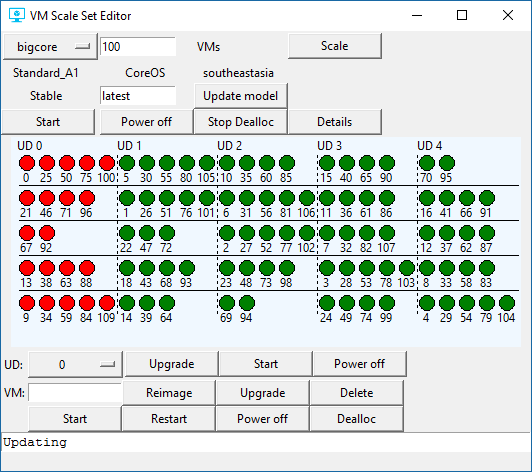
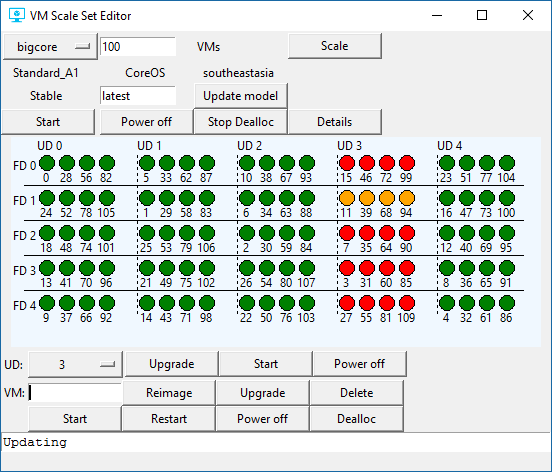
Improve FD UI

diff --git a/vmsseditor.py b/vmsseditor.py
@@ -78,18 +78,20 @@ def draw_grid():
     # horizontal lines for FDs
     for y in range(4):
         ydelta = y * 35
-        vmcanvas.create_line(10, 50 + ydelta, 510, 50 + ydelta)
+        vmcanvas.create_text(15, ydelta + 30, text='FD ' + str(y))
+        vmcanvas.create_line(15, 50 + ydelta, 515, 50 + ydelta)
+    vmcanvas.create_text(15, 170, text='FD 4')
 
     # vertical lines for UDs
     for x in range(4):
         xdelta = x * 100
-        vmcanvas.create_text(20 + xdelta, 10, text='UD ' + str(x))
-        vmcanvas.create_line(108 + xdelta, 20, 108 + xdelta, 180, dash=(4, 2))
-    vmcanvas.create_text(420, 10, text='UD 4')
+        vmcanvas.create_text(40 + xdelta, 10, text='UD ' + str(x))
+        vmcanvas.create_line(128 + xdelta, 20, 128 + xdelta, 180, dash=(4, 2))
+    vmcanvas.create_text(440, 10, text='UD 4')
 
 # draw a heat map for the VMSS VMs - uses the set_domain_lists() function from the vmss class
 def draw_vms(vmssinstances):
-    xval = 10
+    xval = 30
     yval = 20
     diameter = 15
     draw_grid()
@@ -213,13 +215,13 @@ btnwidth = 12
 btnwidthud = 12
 root = tk.Tk()  # Makes the window
 root.wm_title("VM Scale Set Editor")
-root.geometry('530x440')
+root.geometry('550x440')
 root.wm_iconbitmap('vm.ico')
 topframe = tk.Frame(root)
 middleframe = tk.Frame(root)
 udframe = tk.Frame(root)
 selectedud = tk.StringVar()
-vmcanvas = tk.Canvas(middleframe, height=210, width=510, bg = '#F0F8FF') # alice blue
+vmcanvas = tk.Canvas(middleframe, height=210, width=530, bg = '#F0F8FF') # alice blue
 vmframe = tk.Frame(root)
 baseframe = tk.Frame(root)
 topframe.pack(fill=tk.X)
